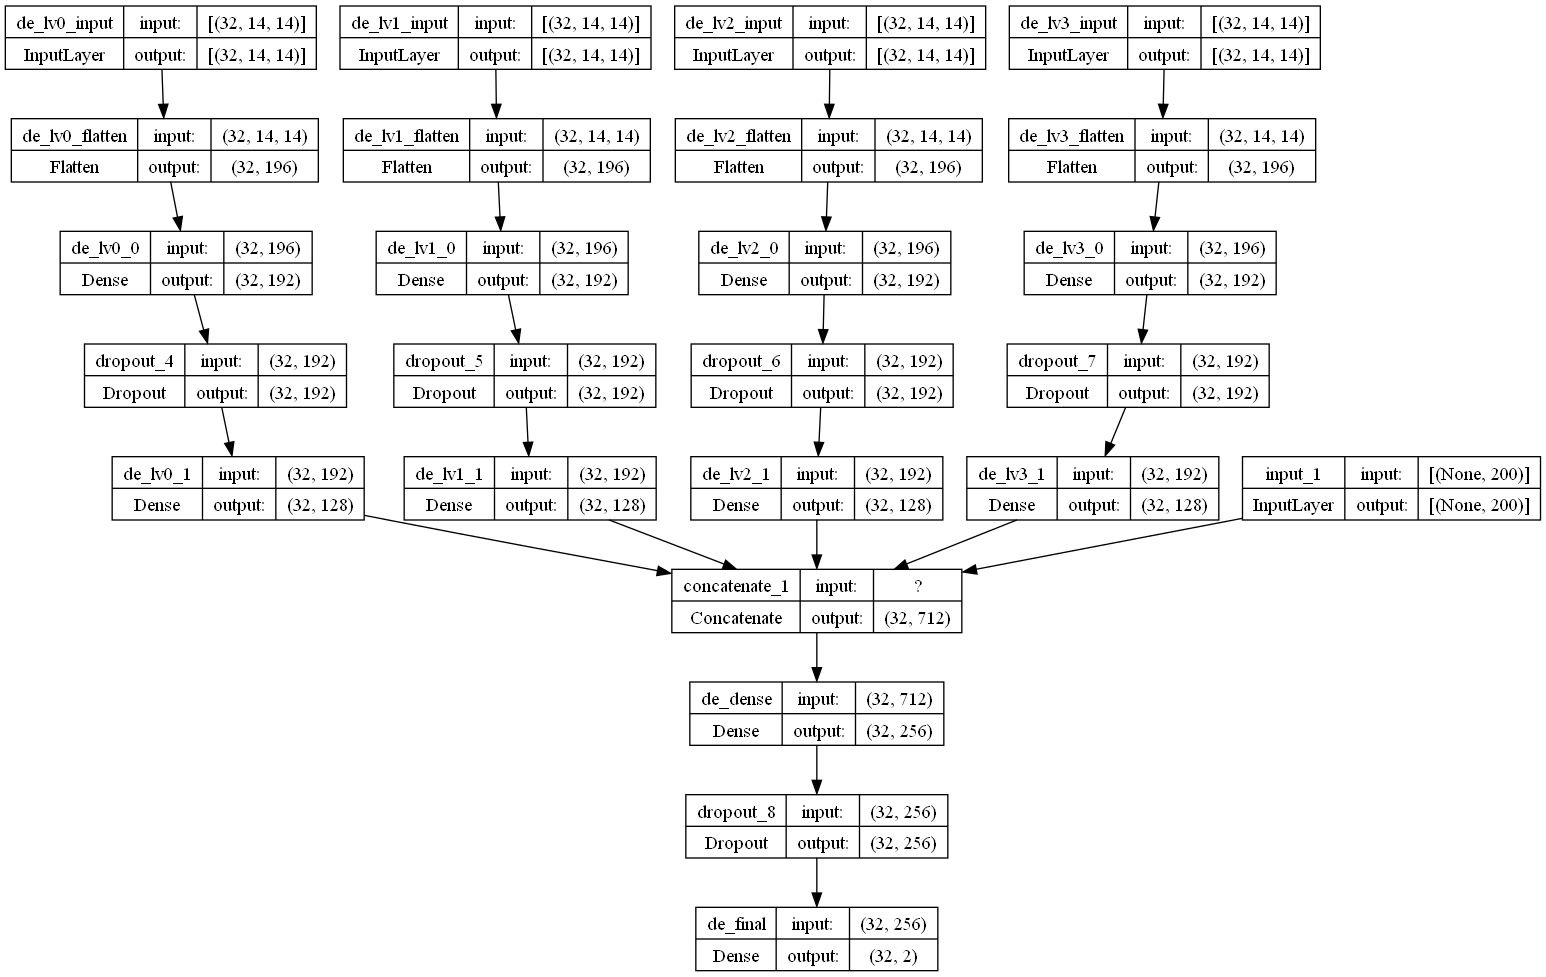
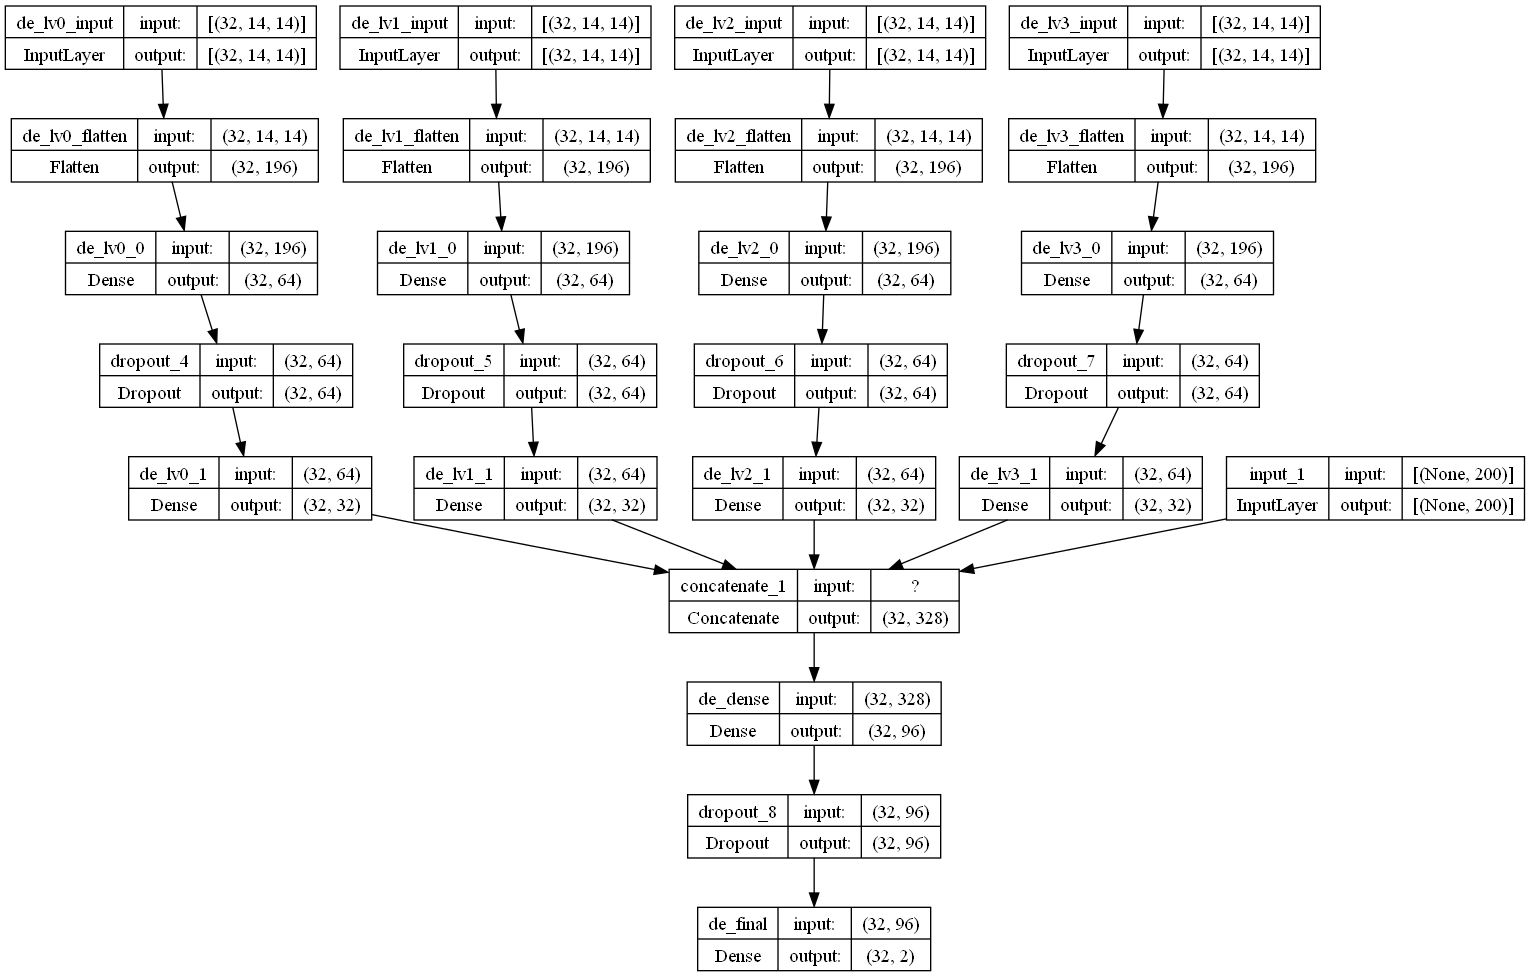
test: decrease layers dimension

Changed region(s): [[0.0307, 0.0, 0.983, 0.6448], [0.4301, 0.6755, 0.6144, 1.0]]

diff --git a/Image Processing/Project 003. 흑백 이미지 컬러화 (생성형 AI 적용)/train.py b/Image Processing/Project 003. 흑백 이미지 컬러화 (생성형 AI 적용)/train.py
@@ -54,42 +54,42 @@ class Main_Model:
 
         # encoder 용 레이어
         # level 0 : 이미지 전체
-        self.encoder_lvl0_0 = layers.Dense(192, activation='relu', name='en_lv0_0')
-        self.encoder_lvl0_1 = layers.Dense(128, activation='relu', name='en_lv0_1')
+        self.encoder_lvl0_0 = layers.Dense(64, activation='relu', name='en_lv0_0')
+        self.encoder_lvl0_1 = layers.Dense(32, activation='relu', name='en_lv0_1')
         
         # level 1 : 주변 56 x 56 영역 (상하좌우 +24 pixels)
-        self.encoder_lvl1_0 = layers.Dense(192, activation='relu', name='en_lv1_0')
-        self.encoder_lvl1_1 = layers.Dense(128, activation='relu', name='en_lv1_1')
+        self.encoder_lvl1_0 = layers.Dense(64, activation='relu', name='en_lv1_0')
+        self.encoder_lvl1_1 = layers.Dense(32, activation='relu', name='en_lv1_1')
 
         # level 2 : 주변 28 x 28 영역 (상하좌우 +10 pixels)
-        self.encoder_lvl2_0 = layers.Dense(192, activation='relu', name='en_lv2_0')
-        self.encoder_lvl2_1 = layers.Dense(128, activation='relu', name='en_lv2_1')
+        self.encoder_lvl2_0 = layers.Dense(64, activation='relu', name='en_lv2_0')
+        self.encoder_lvl2_1 = layers.Dense(32, activation='relu', name='en_lv2_1')
 
         # level 3 : 주변 14 x 14 영역 (상하좌우 +3 pixels)
-        self.encoder_lvl3_0 = layers.Dense(192, activation='relu', name='en_lv3_0')
-        self.encoder_lvl3_1 = layers.Dense(128, activation='relu', name='en_lv3_1')
+        self.encoder_lvl3_0 = layers.Dense(64, activation='relu', name='en_lv3_0')
+        self.encoder_lvl3_1 = layers.Dense(32, activation='relu', name='en_lv3_1')
         
-        self.encoder_final_dense = layers.Dense(256, activation='relu', name='en_final')
+        self.encoder_final_dense = layers.Dense(64, activation='relu', name='en_final')
 
         # decoder 용 레이어
         # level 0 : 이미지 전체
-        self.decoder_lvl0_0 = layers.Dense(192, activation='relu', name='de_lv0_0')
-        self.decoder_lvl0_1 = layers.Dense(128, activation='relu', name='de_lv0_1')
+        self.decoder_lvl0_0 = layers.Dense(64, activation='relu', name='de_lv0_0')
+        self.decoder_lvl0_1 = layers.Dense(32, activation='relu', name='de_lv0_1')
         
         # level 1 : 주변 56 x 56 영역 (상하좌우 +24 pixels)
-        self.decoder_lvl1_0 = layers.Dense(192, activation='relu', name='de_lv1_0')
-        self.decoder_lvl1_1 = layers.Dense(128, activation='relu', name='de_lv1_1')
+        self.decoder_lvl1_0 = layers.Dense(64, activation='relu', name='de_lv1_0')
+        self.decoder_lvl1_1 = layers.Dense(32, activation='relu', name='de_lv1_1')
 
         # level 2 : 주변 28 x 28 영역 (상하좌우 +10 pixels)
-        self.decoder_lvl2_0 = layers.Dense(192, activation='relu', name='de_lv2_0')
-        self.decoder_lvl2_1 = layers.Dense(128, activation='relu', name='de_lv2_1')
+        self.decoder_lvl2_0 = layers.Dense(64, activation='relu', name='de_lv2_0')
+        self.decoder_lvl2_1 = layers.Dense(32, activation='relu', name='de_lv2_1')
 
         # level 3 : 주변 14 x 14 영역 (상하좌우 +3 pixels)
-        self.decoder_lvl3_0 = layers.Dense(192, activation='relu', name='de_lv3_0')
-        self.decoder_lvl3_1 = layers.Dense(128, activation='relu', name='de_lv3_1')
+        self.decoder_lvl3_0 = layers.Dense(64, activation='relu', name='de_lv3_0')
+        self.decoder_lvl3_1 = layers.Dense(32, activation='relu', name='de_lv3_1')
 
-        # latent vector (200) 과 결합하여 (200 + 128 + 128 + 128 + 128 = 712) 으로 만들기!
-        self.decoder_dense = layers.Dense(256, activation='relu', name='de_dense')
+        # latent vector (200) 과 결합하여 (200 + 32 + 32 + 32 + 32 = 328) 으로 만들기!
+        self.decoder_dense = layers.Dense(96, activation='relu', name='de_dense')
         self.decoder_dense_final = layers.Dense(2, activation='tanh', name='de_final')
         
         # encoder (input and flattening)
@@ -437,7 +437,7 @@ def train_model(train_input_lv0, train_input_lv1, train_input_lv2, train_input_l
             train_input_lv0_for_model, train_input_lv1_for_model, train_input_lv2_for_model, train_input_lv3_for_model
         ],
         train_all_coords_,
-        epochs=1, # 1 for functionality test, 10 for regular training
+        epochs=5, # 1 for functionality test, 10 for regular training
         batch_size=BATCH_SIZE,
         shuffle=True
     )
